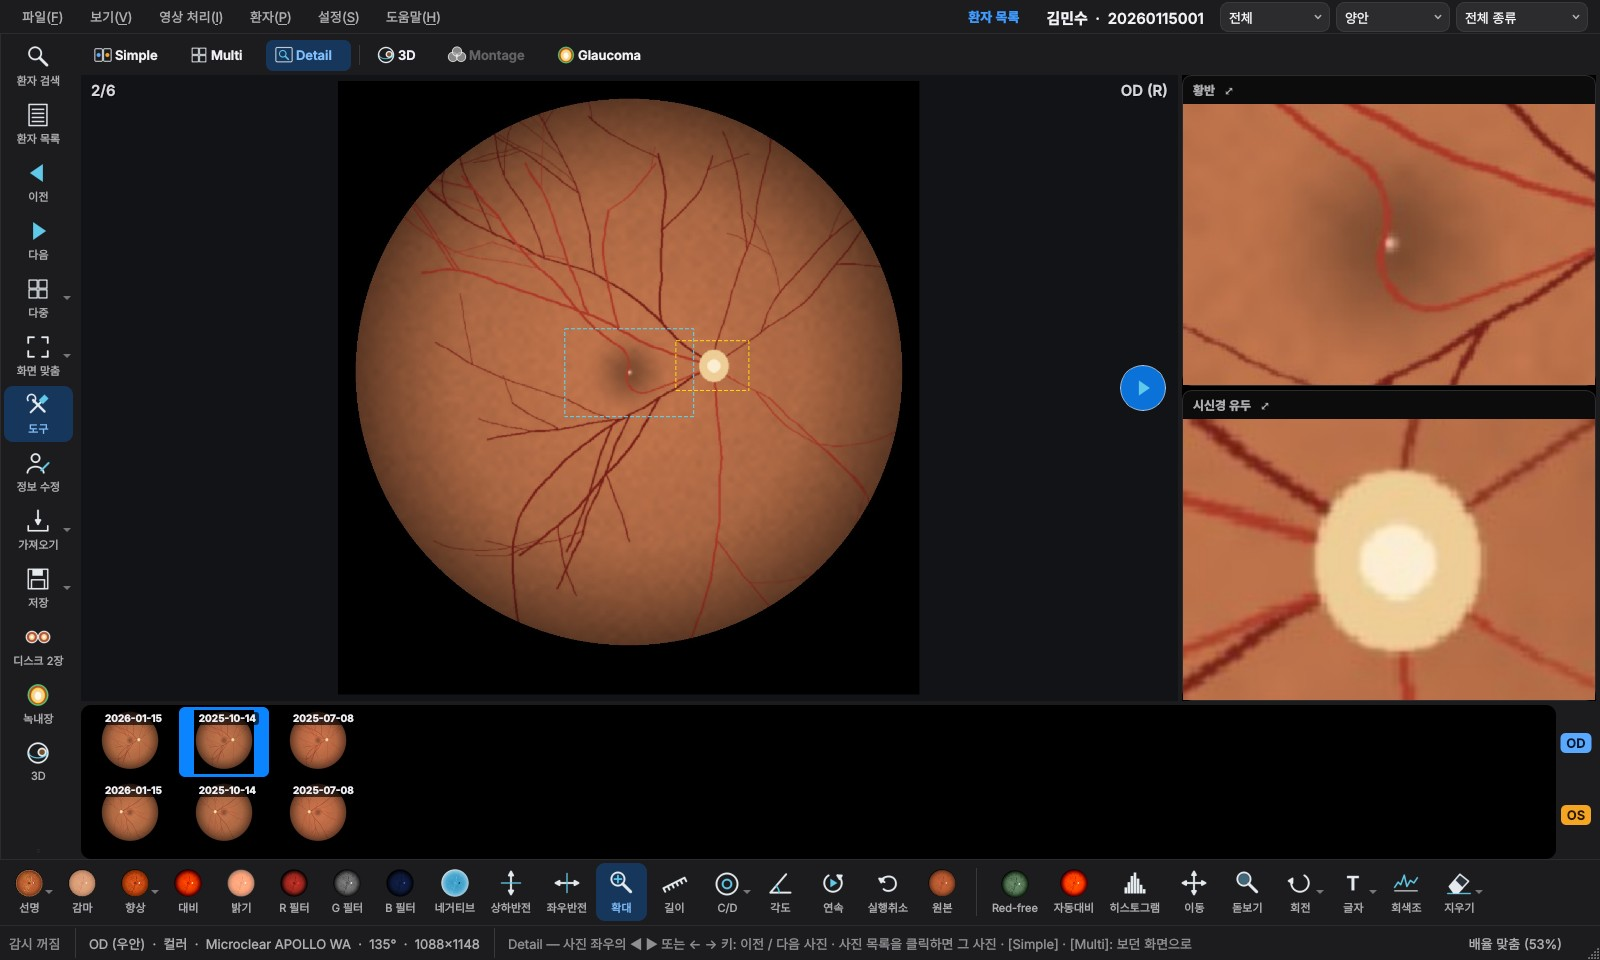
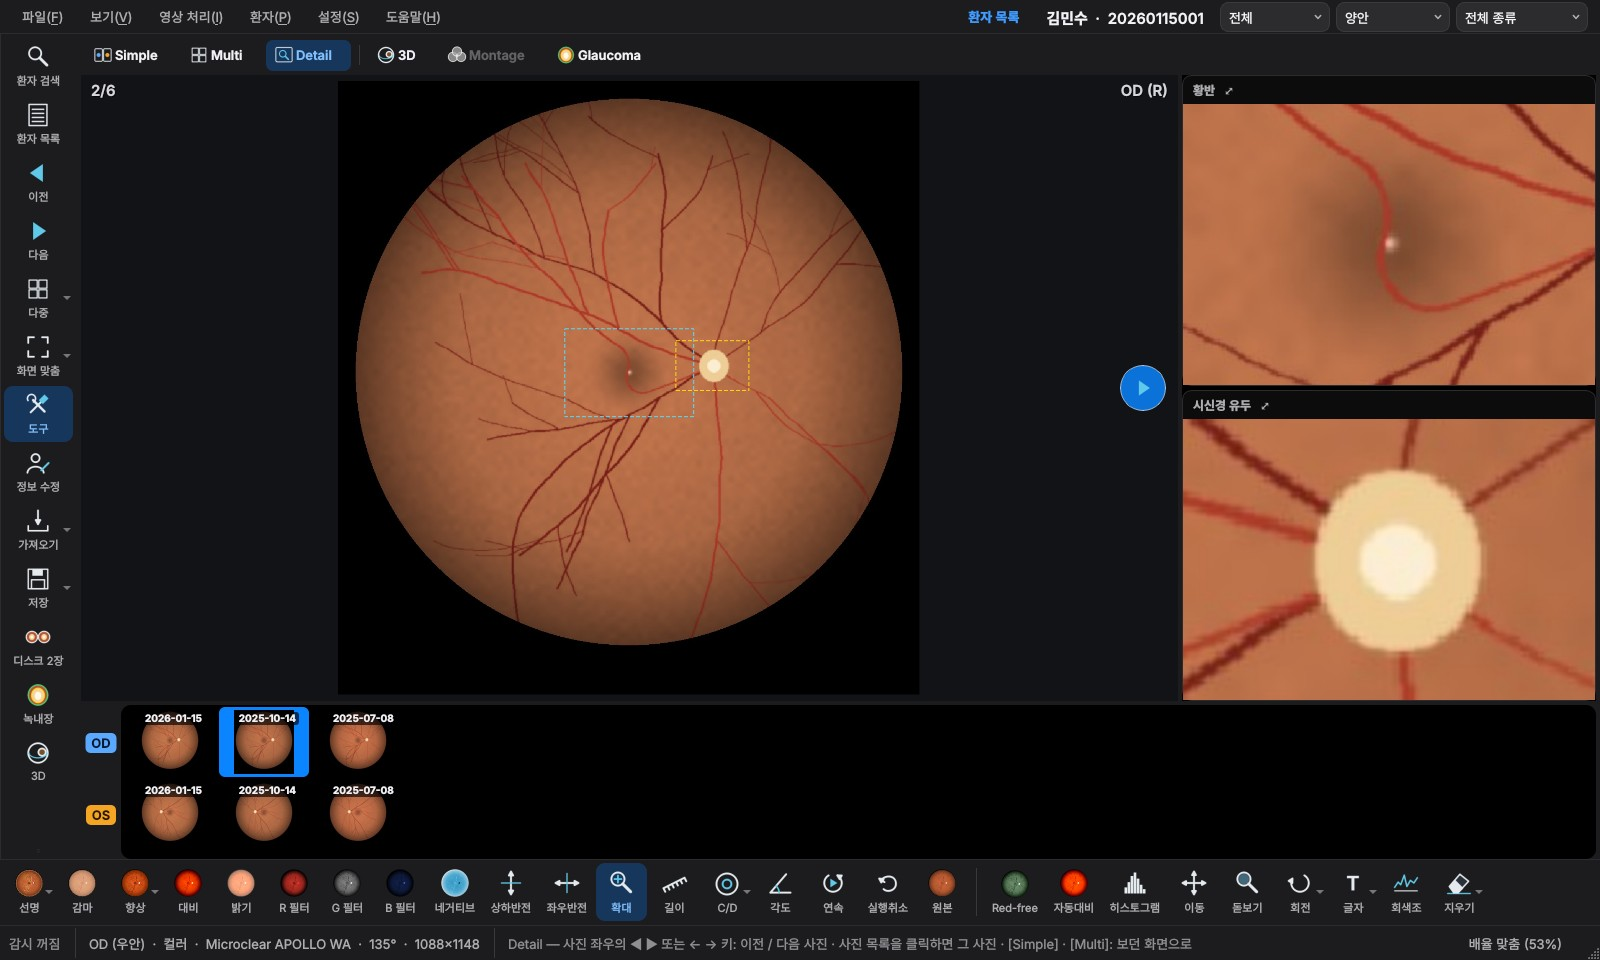
사진 목록: OD · OS 표시를 줄 왼쪽으로
* 눈별 두 줄일 때 각 줄의 눈(OD · OS)을 사진 목록 오른쪽 끝이 아니라 왼쪽에 표시.
* README · 릴리스 노트 · 도움말 · 메뉴 설명, 화면 그림(open_odos · multi_view · overview), 시험을 맞춤.

Claude-Session: https://claude.ai/code/session_01SGHFuhR99pNGoeuHWJFHJN

Changed region(s): [[0.0312, 0.7188, 0.25, 0.9062], [0.9688, 0.7188, 1.0, 0.9062]]

diff --git a/fundusview/ui/main_window.py b/fundusview/ui/main_window.py
@@ -439,7 +439,7 @@ class MainWindow(QMainWindow):
         self.act_thumb_kind = sub.addAction("종류 (컬러 · 몽타주 …)")
         self.act_thumb_kind.setToolTip("사진 목록의 사진 위(왼쪽 아래)에 촬영 종류를 씁니다")
         self.act_thumb_eyes = sub.addAction("눈별로 두 줄 (OD 위 · OS 아래)")
-        self.act_thumb_eyes.setToolTip("위 줄 OD · 아래 줄 OS, 눈은 줄 오른쪽 끝에 한 번만 표시 — 끄면 한 줄 (OD 다음 OS, 사진마다 눈 표시)")
+        self.act_thumb_eyes.setToolTip("위 줄 OD · 아래 줄 OS, 눈은 줄 왼쪽에 한 번만 표시 — 끄면 한 줄 (OD 다음 OS, 사진마다 눈 표시)")
         sub.setToolTipsVisible(True)
         for a, on in ((self.act_thumb_date, self.settings.thumb_date), (self.act_thumb_kind, self.settings.thumb_kind),
                       (self.act_thumb_eyes, self._thumb_rows != 1)):
@@ -589,7 +589,7 @@ class MainWindow(QMainWindow):
                                     "Ctrl+클릭: 두 번째 사진(②) 선택/해제 — 비교 · 디스크 2장 · "
                                     "오른쪽 클릭: 환자 지정·다시 분석"))
         self.thumbs.stepped.connect(self._step)
-        self.eye_rail = EyeRail(self.thumbs)                 # OD · OS, once per row, at the right end
+        self.eye_rail = EyeRail(self.thumbs)                 # OD · OS, once per row, at its left
         self.thumbs.viewport().installEventFilter(self)
         self.thumbs.setHorizontalScrollMode(QAbstractItemView.ScrollMode.ScrollPerPixel)
         self.thumbs.setVerticalScrollMode(QAbstractItemView.ScrollMode.ScrollPerPixel)
@@ -742,13 +742,13 @@ class MainWindow(QMainWindow):
         gb.addSpacing(18)
         gb.addWidget(lbl_hint, 1)
         self.grid_bar.hide()
-        # under the photos: the photo list over the whole width, the eye of each row at its right end
+        # under the photos: the photo list over the whole width, the eye of each row at its left
         # (both straight in this row: a box of their own around them made the photos above settle
         # one round of the event loop later whenever the list changed height)
         strip = QHBoxLayout()
         strip.setSpacing(0)
-        strip.addWidget(self.thumbs, 1)
         strip.addWidget(self.eye_rail)
+        strip.addWidget(self.thumbs, 1)
         strip.addWidget(self.grid_bar, 1)
         strip.setContentsMargins(0, 0, 0, 0)
         self.strip_w = QWidget()         # hidden on the 검토 tab (its timeline lists the photos there)
@@ -1457,7 +1457,7 @@ class MainWindow(QMainWindow):
             "잘못 찾았으면 큰 사진에서 오른쪽 클릭 → 황반 / 시신경 유두로 지정<br>"
             "<b>3D</b>: 보고 있는 사진을 3D 안구로 — 한 번 더 누르면 보던 화면으로<br><br>"
             "<b>사진 목록 (화면 아래)</b><br>"
-            "위 줄 OD · 아래 줄 OS (줄마다 최신 사진부터) — 눈은 줄 오른쪽 끝에 한 번만 표시하고, 사진 위에는 날짜만 씁니다<br>"
+            "위 줄 OD · 아래 줄 OS (줄마다 최신 사진부터) — 눈은 줄 왼쪽에 한 번만 표시하고, 사진 위에는 날짜만 씁니다<br>"
             "보기 → 사진 목록 표시: 날짜 · 종류(컬러 · 몽타주 …) · 눈별로 두 줄 (끄면 한 줄) · 미상 사진은 눈 고르기 → 미상<br><br>"
             "<b>16장 보기 (VK-2 방식)</b><br>"
             "설정 → 일반 → 환자를 열면: VK-2 방식을 고르면 환자를 열 때 사진 16장이 한 화면에 나옵니다<br>"
@@ -2177,7 +2177,7 @@ class MainWindow(QMainWindow):
     def _set_thumb_rows(self, n: int, save: bool = False) -> None:
         """The photo list: 1 = all photos in one scrolling line, the eye on every photo; otherwise
         by eye — OD in the top row, OS in the row under it (OU in a third row when there are any),
-        the eye said once at the right end of each row (``EyeRail``). 미상: see _fill_thumbs.
+        the eye said once at the left of each row (``EyeRail``). 미상: see _fill_thumbs.
         (보기 → 사진 목록 표시 → 눈별로 두 줄)"""
         n = 1 if n == 1 else 2
         self._thumb_rows = n

diff --git a/tests/test_multi_picks.py b/tests/test_multi_picks.py
@@ -73,7 +73,7 @@ def test_strip_rows_by_eye(app):
     while time.time() < deadline:
         app.processEvents()
     check()
-    # the eye of each row, top to bottom — said once per row at the right end of the rows (EyeRail)
+    # the eye of each row, top to bottom — said once per row at the left of the rows (EyeRail)
     from fundusview.ui.thumbs import EyeRail
 
     assert t.row_eyes() == ["OD", "OS", ""]
@@ -212,7 +212,7 @@ def test_pick_photos_and_edit_each_in_multi(app, tmp_path, demo_dir, import_and_
         assert all("°" not in w.thumbs.item(i).text() for i in range(3))     # the date and the kind, no angle
 
         # by eye: OD in the top row, OS in the row under it — low rows (the photo fills its cell, no
-        # caption under it), the eye said once per row at the right end; 보기 → 사진 목록 표시 → 눈별로 두 줄
+        # caption under it), the eye said once per row at its left; 보기 → 사진 목록 표시 → 눈별로 두 줄
         # switches to one line and back (remembered); one eye on the list = one row
         from fundusview.ui.main_window import THUMB_GRID
         from fundusview.ui.thumbs import DATE_ROLE, KIND_ROLE
@@ -232,7 +232,7 @@ def test_pick_photos_and_edit_each_in_multi(app, tmp_path, demo_dir, import_and_
         assert rects[0].left() == rects[2].left() < rects[1].left()   # each row starts at the left
         assert w.act_thumb_eyes.isChecked() and w.thumbs.height() == 2 * grid_h + 10
         assert w.eye_rail.isVisible() and [e for e, _ in w.eye_rail.badge_rects()] == ["OD", "OS"]
-        assert w.eye_rail.x() >= w.thumbs.x() + w.thumbs.width() and not w.thumb_paint.show_eye
+        assert w.eye_rail.x() + w.eye_rail.width() <= w.thumbs.x() and not w.thumb_paint.show_eye
         w.act_thumb_eyes.setChecked(False)
         assert s.thumb_rows == 1 and w.thumbs.height() == THUMB_GRID[1] + 10
         assert len(set(tops())) == 1 and not w.eye_rail.isVisible() and w.thumb_paint.show_eye

diff --git a/tests/test_overview.py b/tests/test_overview.py
@@ -75,9 +75,10 @@ def test_overview_is_the_photo_with_its_macula_and_disc(tmp_path, demo_dir, impo
         assert [k for k, b in w.view_buttons.items() if b.isChecked()] == ["all"]
         assert w.view_bar.mapTo(w, QPoint(0, 0)).y() + w.view_bar.height() <= w.view2d.mapTo(w, QPoint(0, 0)).y()
         assert not w.multi_bar.isVisible() and _inside(w.multi.combo, w.view_bar)
-        # under the photos: the photo list alone, over the whole width (the eye of each row at its right end)
+        # under the photos: the photo list alone, over the whole width (the eye of each row at its left)
         assert w.thumbs.mapTo(w, QPoint(0, 0)).y() > w.view2d.mapTo(w, QPoint(0, 0)).y() + w.view2d.height() - 5
-        assert w.thumbs.mapTo(w.strip_w, QPoint(0, 0)).x() < 10
+        assert w.eye_rail.mapTo(w.strip_w, QPoint(0, 0)).x() < 10
+        assert abs(w.thumbs.x() - (w.eye_rail.x() + w.eye_rail.width())) <= 2
         assert w.thumbs.width() + w.eye_rail.width() >= w.strip_w.width() - 10 and w.eye_rail.isVisible()
         assert w.menuBar().cornerWidget(Qt.Corner.TopRightCorner) is w.top_w
         assert w.btn_patients.isVisible() and _inside(w.btn_patients, w.top_w)

diff --git a/fundusview/ui/thumbs.py b/fundusview/ui/thumbs.py
@@ -8,7 +8,7 @@ its pick number —, the second picked photo ②.
 
 ``ThumbStrip`` lays the photos out by eye: OD photos in the top row, OS photos in the row under
 it, and anything else (OU) in a third row only when there is any; the rows scroll sideways
-together. The eye is said once per row, at the right end of the rows (``EyeRail``), not on every
+together. The eye is said once per row, at the left of the rows (``EyeRail``), not on every
 photo. Or all photos in one line — then each has its eye badge (OD blue · OS orange · OU purple ·
 미상 grey). (The main window leaves 미상 photos out of the list.)
 """
@@ -266,7 +266,7 @@ class ThumbStrip(QListWidget):
 
 
 class EyeRail(QWidget):
-    """The eye of each row of the strip, said once at the right end of the rows — OD at the top
+    """The eye of each row of the strip, said once at the left of the rows — OD at the top
     row, OS at the one under it — rather than on every photo. (One line: nothing; each photo has
     its badge.)"""
 

diff --git a/fundusview/config.py b/fundusview/config.py
@@ -102,7 +102,7 @@ class Settings:
     # (newest first in each; an older 3 means by eye too)
     thumb_rows: int = 2
     # … and what is written on its photos (보기 → 사진 목록 표시): the exam date, the kind of photo
-    # (컬러 · 몽타주 …). The eye is said once per row, at its right end.
+    # (컬러 · 몽타주 …). The eye is said once per row, at its left.
     thumb_date: bool = True
     thumb_kind: bool = False
     # 환자를 열면 (설정 → 일반): "odos" = Simple — 최신 OD | OS 두 장을 나란히 (처음 설정) ·

diff --git a/README.md b/README.md
@@ -127,7 +127,7 @@ Mac 앱(Apple Silicon)을 빌드·시험하며, 기본 브랜치(`fundus-viewer`
    **[환자 목록]** · 메뉴 줄 오른쪽의 **[환자 목록]** · Ctrl+0 으로 다시 엽니다.
 1. 새 사진이 들어오면 환자 목록 창이 떠 있더라도 그 환자와 사진이 바로 열립니다(파일 → 새 영상 자동 표시).
 2. 작업 화면: 사진 위 한 줄에 **[Simple] · [Multi] · [Detail] · [3D]**(보기 고르기)와 **[Montage] · [Glaucoma]** 아이콘,
-   큰 사진 화면 → 그 아래에 사진 목록(위 줄 OD · 아래 줄 OS, 최신 사진부터 — 사진 위에 날짜, 줄 오른쪽 끝에
+   큰 사진 화면 → 그 아래에 사진 목록(위 줄 OD · 아래 줄 OS, 최신 사진부터 — 사진 위에 날짜, 줄 왼쪽에
    **OD / OS**). 환자 이름 · ID와 날짜 · 눈 · 촬영 종류 고르기는 **메뉴 줄 오른쪽**에, 명령 툴바는 **왼쪽**에
    있습니다. **Simple**(처음 화면)에서는 사진 목록을 **클릭**하면 그 눈의 사진이 그 사진으로 바뀌고, **Multi**에서는
    클릭하는 대로 더해져(번호) 고른 장수에 맞게 화면이 나뉩니다(1장 · 2장 · 4칸 · 6칸 …). 어느 사진이든 **더블클릭**하면
@@ -233,7 +233,7 @@ Windows에서는 창 제목 표시줄도 어둡게 맞춥니다.
   환자 목록 창 Ctrl+0 입니다. VK-2 방식(설정 → 일반 → 환자를 열면)에서는 맨 앞에 **[16장]** 이 더 있습니다
   (16장 보기, Ctrl+4). 자세한 것은 [아래](#보기-고르기--simple--multi--detail).
 * 사진 화면 **아래**: 촬영 사진 목록만 화면 폭 전체에 나옵니다(위 줄 OD · 아래 줄 OS, 최신부터). 사진이 칸을 꽉 채우고
-  설명 줄이 없어 낮으며, 날짜는 사진 위에, 눈(OD · OS)은 줄 오른쪽 끝에 한 번만 나옵니다.
+  설명 줄이 없어 낮으며, 날짜는 사진 위에, 눈(OD · OS)은 줄 왼쪽에 한 번만 나옵니다.
 * 0.3.0부터 **검토 · 2D 보기 · 비교** 화면은 쓰지 않습니다. 큰 2D 사진은 Detail에, 두 장 비교는
   [디스크 2장] · [녹내장](스테레오 보기 · 경과 비교)에 있습니다.
 * 사진 위에는 구석에 작은 글자 두 개만 나옵니다. 왼쪽 위에 사진 번호(`1/2`), 오른쪽 위에 눈(`OD (R)`). 환자 이름·ID·날짜는
@@ -381,7 +381,7 @@ Windows에서는 창 제목 표시줄도 어둡게 맞춥니다.
 * 사진 목록은 화면 **아래쪽**에 화면 폭 전체로 나옵니다. **사진이 칸을 꽉 채우고** 사진 아래에 설명 줄이 없어서, 전보다
   사진은 크고 목록은 낮습니다(그만큼 위의 사진 화면이 커짐).
 * **눈별로** 나옵니다 — **위 줄은 OD, 아래 줄은 OS**(OU 사진이 있으면 셋째 줄), 줄마다 **최신 사진부터**. 눈은 사진마다
-  쓰지 않고 **줄 오른쪽 끝에 한 번만** 색 글자로 나옵니다 — **OD**(파랑) · **OS**(주황) · **OU**(보라).
+  쓰지 않고 **줄 왼쪽에 한 번만** 색 글자로 나옵니다 — **OD**(파랑) · **OS**(주황) · **OU**(보라).
 * **날짜**는 사진 위(왼쪽 위)에 겹쳐 나옵니다. **보기 → 사진 목록 표시**(또는 설정 → 일반)에서 고릅니다(기억됨):
   **날짜**(처음에 켜짐) · **종류**(컬러 · 몽타주 · Red-free … 처음에 꺼짐, 켜면 사진 왼쪽 아래에) ·
   **눈별로 두 줄**(끄면 모든 사진을 한 줄로 — OD 다음 OS, 이때는 사진마다 눈 표시가 붙음).

diff --git a/docs/release_notes.md b/docs/release_notes.md
@@ -52,7 +52,7 @@ Mac용은 **Apple Silicon**(M1 · M2 · M3 · M4 …)용만 있습니다 — Int
 **사진 목록 — 사진 위주로, 낮게**
 * 사진 목록이 **화면 폭 전체**를 쓰고, 사진 아래의 설명 두 줄을 없앴습니다. 사진이 칸을 꽉 채워 **더 크게** 나오고
   목록 높이는 줄어(두 줄 218 → 154 픽셀) 그만큼 위의 사진 화면이 커졌습니다.
-* **날짜**는 사진 위(왼쪽 위)에 겹쳐 씁니다. **눈(OD · OS)** 은 사진마다 쓰지 않고 **줄 오른쪽 끝에 한 번만** 표시합니다.
+* **날짜**는 사진 위(왼쪽 위)에 겹쳐 씁니다. **눈(OD · OS)** 은 사진마다 쓰지 않고 **줄 왼쪽에 한 번만** 표시합니다.
 * **보기 → 사진 목록 표시**(설정 → 일반에도 있음)에서 고릅니다: **날짜**(처음에 켜짐) · **종류**(컬러 · 몽타주 … 처음에 꺼짐) ·
   **눈별로 두 줄**(끄면 한 줄 — 이때는 사진마다 눈 표시).
 
